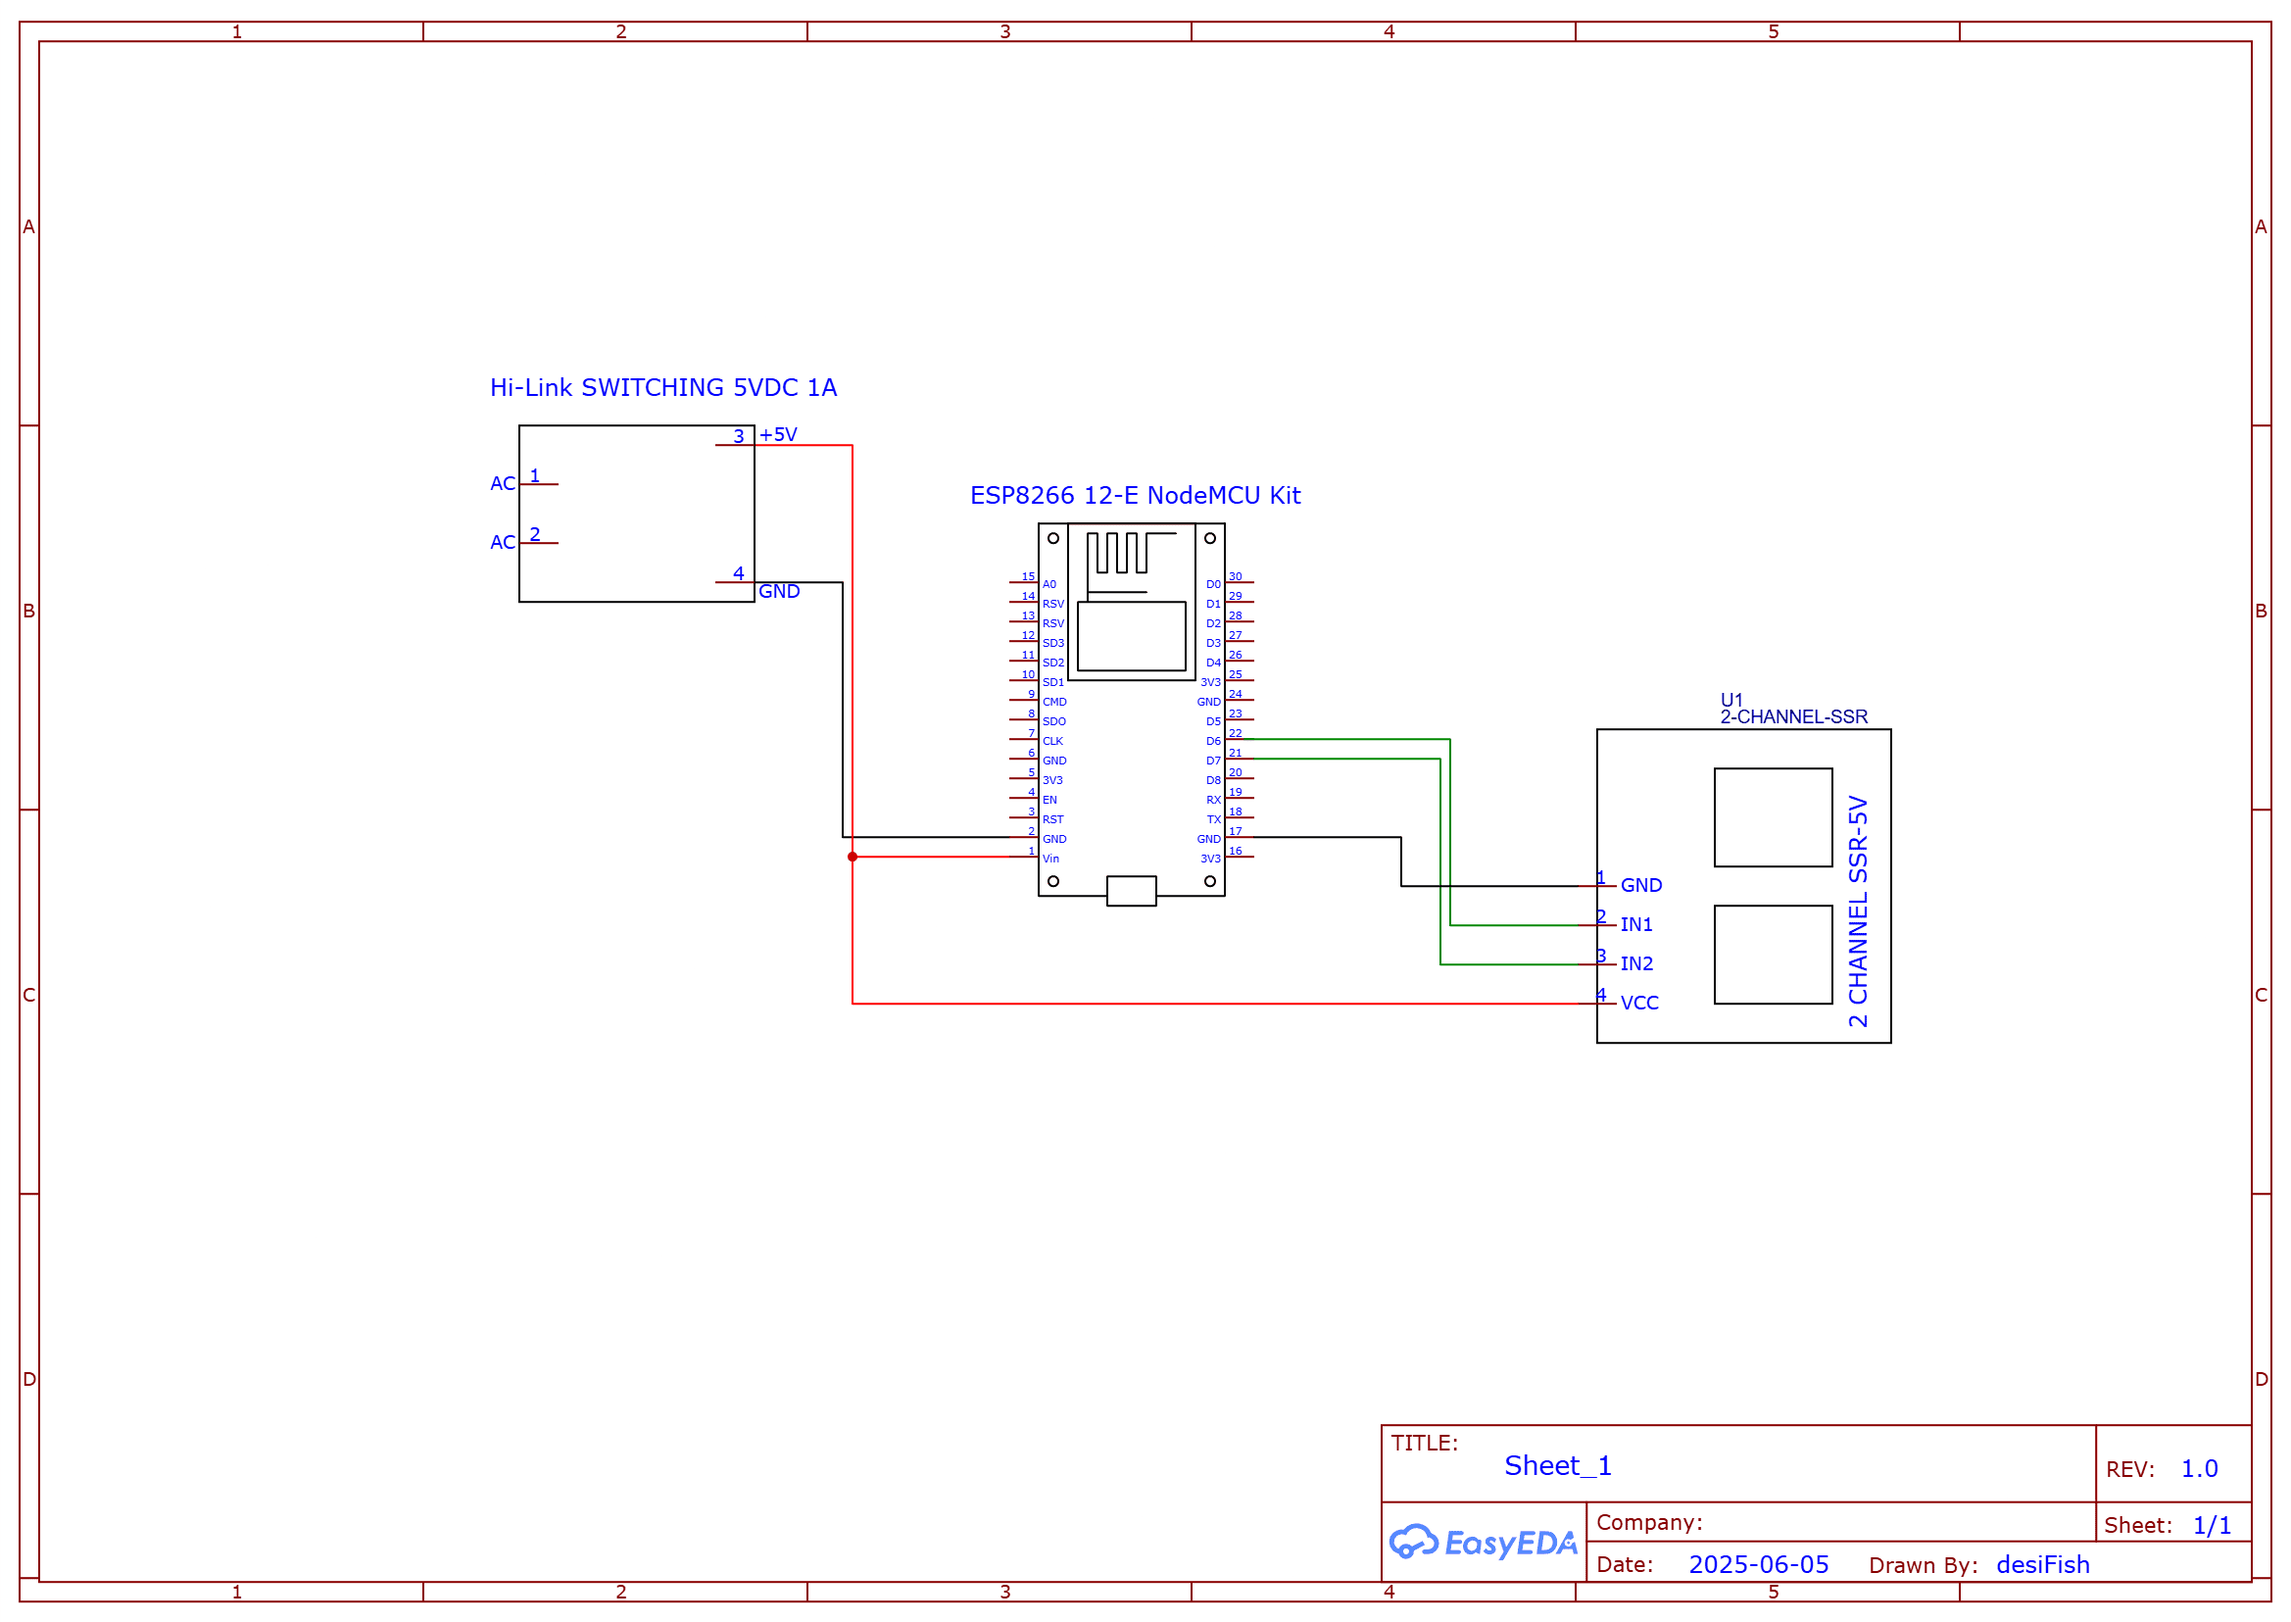
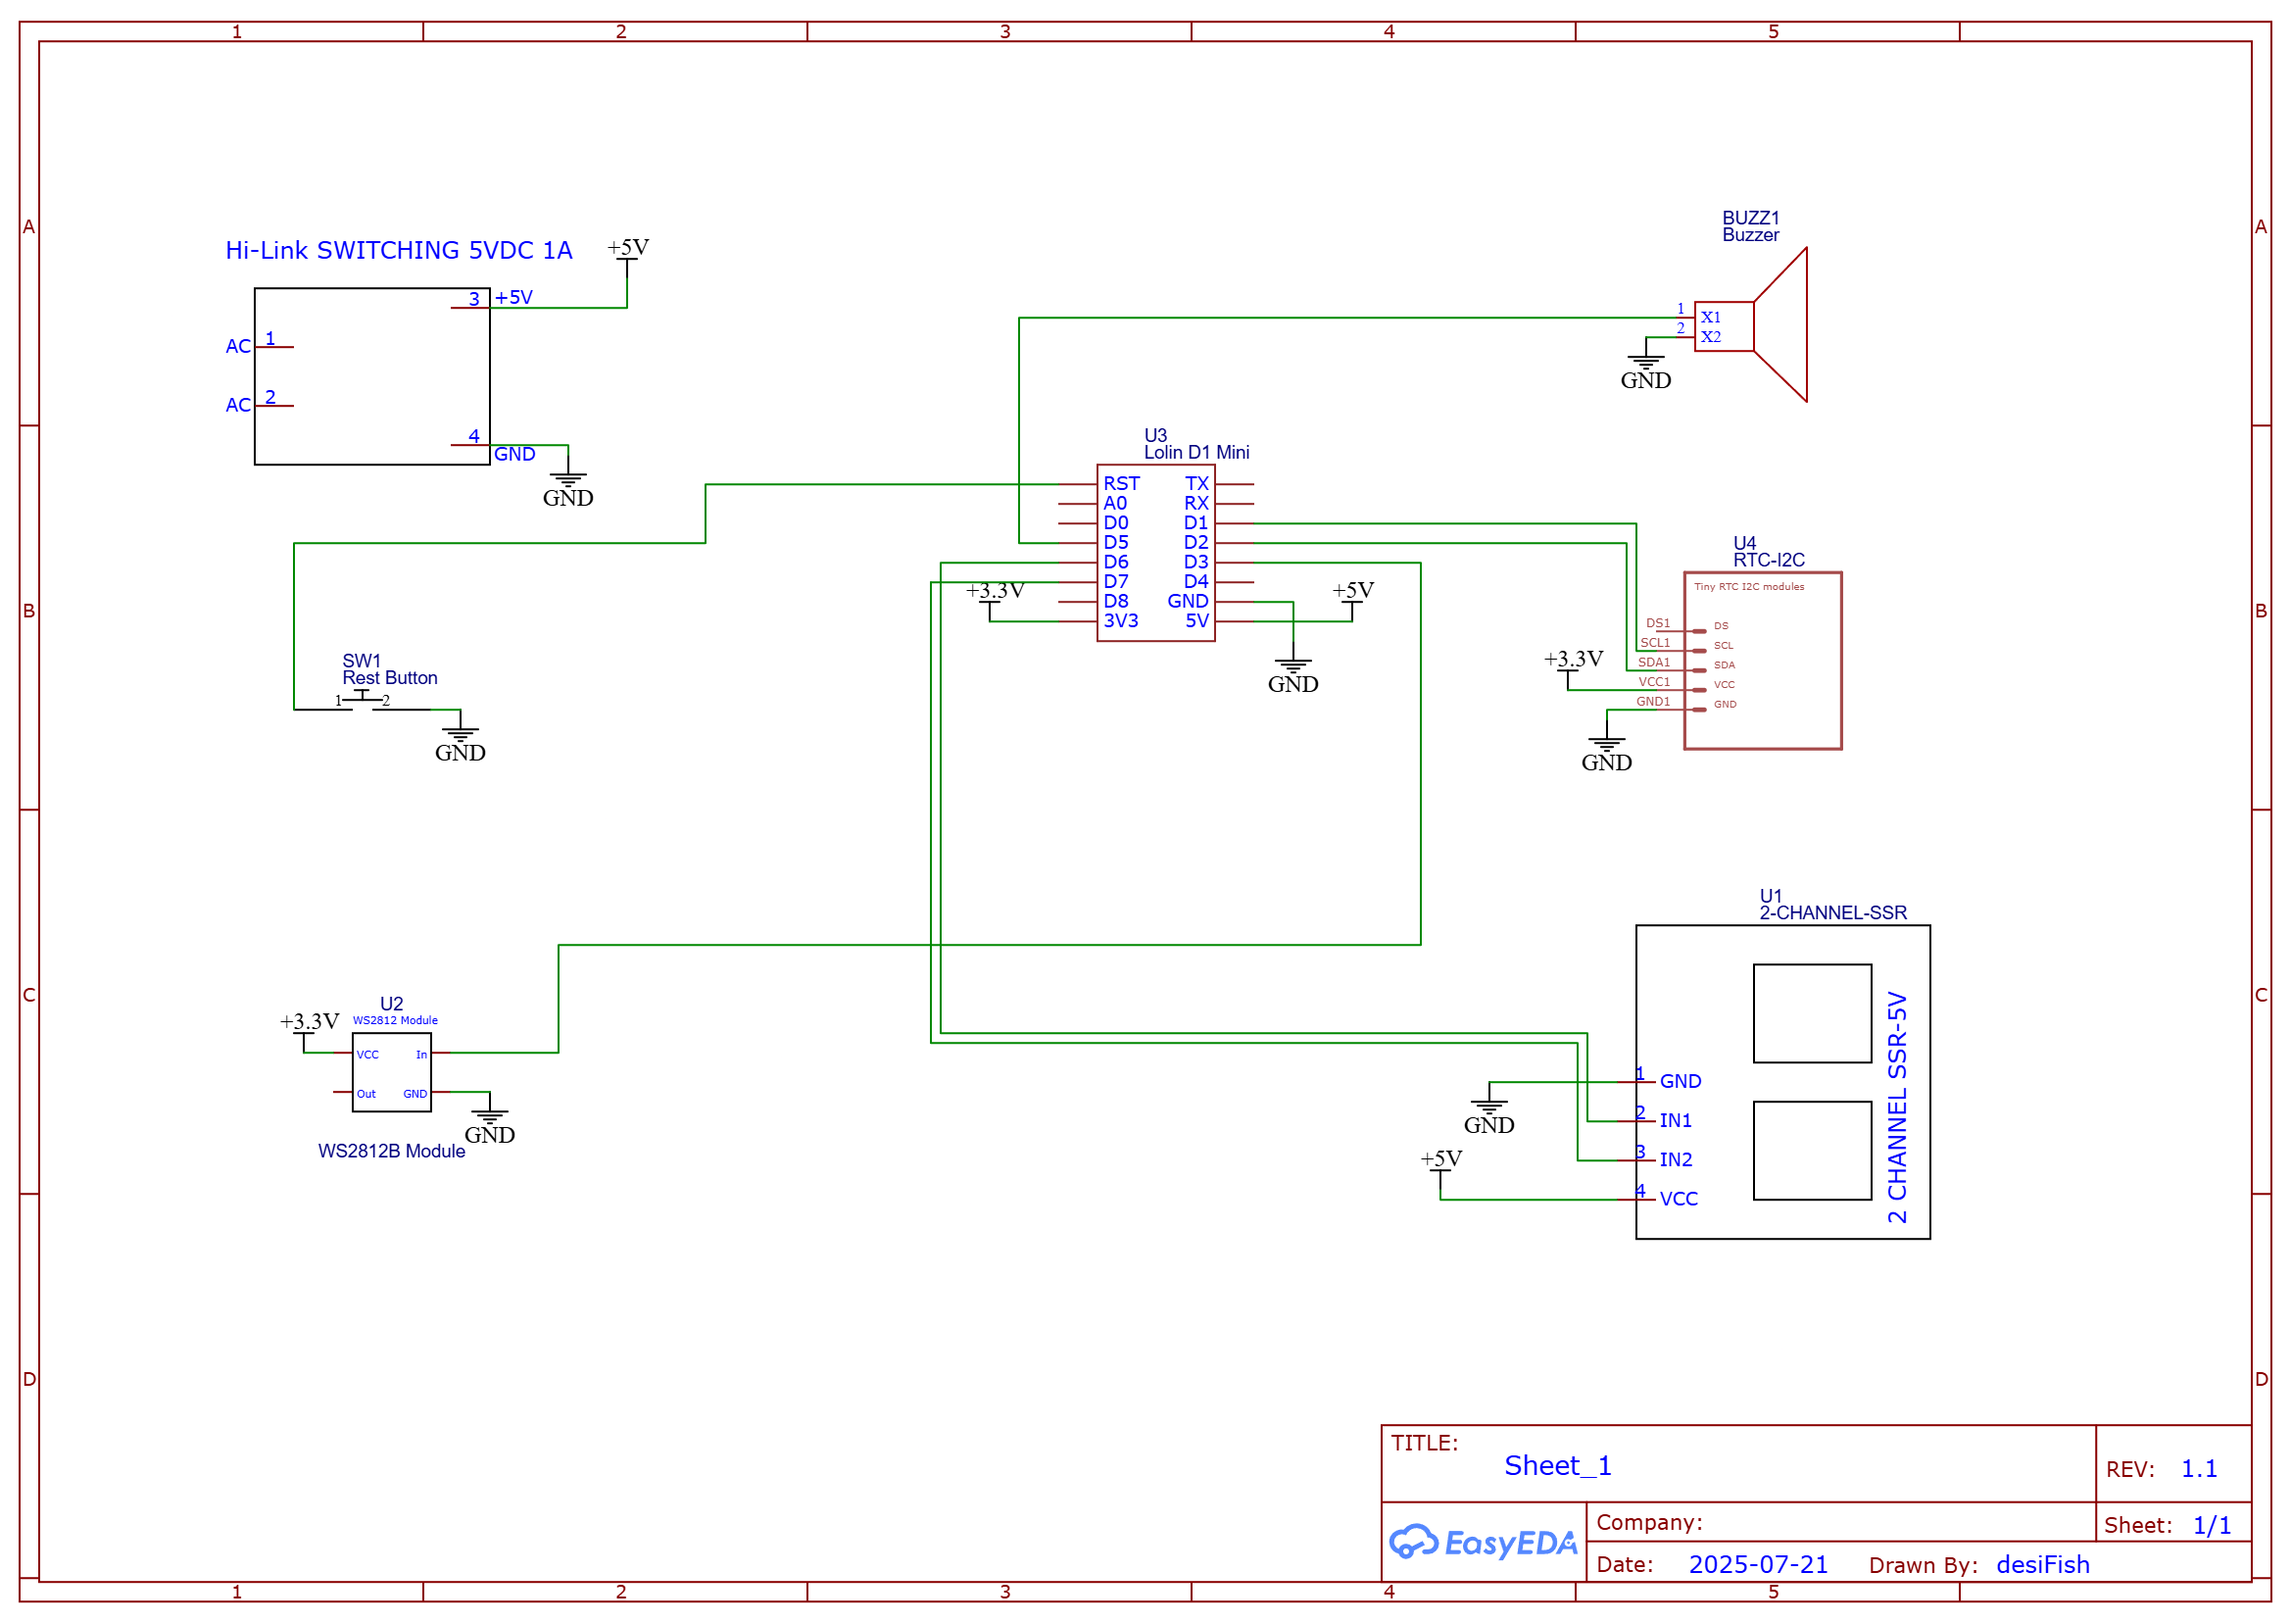
docmunetation update v1.1.0

diff --git a/README.md b/README.md
@@ -62,6 +62,16 @@ By using this project, you acknowledge and agree to the following:
 </div>
 </div>
 
+## 🕒 RTC Support (DS1307/DS3231)
+
+This project supports both **DS1307** and **DS3231** RTC modules for accurate timekeeping.  
+- By default, the code uses DS1307.  
+- To use DS3231, uncomment the relevant line in the code (`RTC_DS3231 rtc;`) and comment out the DS1307 line before uploading.
+- Both modules connect via I2C (SDA/SCL) to the ESP8266.
+- RTC time can be updated from the **Settings** page in the web interface.
+
+> **Note:** The RTC keeps time even when the ESP8266 is powered off. Time synchronization from NTP is only required after initial setup or if the RTC loses power.
+
 ## 🌟 Features
 
 - **🎛 Multiple Control Modes**
@@ -77,13 +87,13 @@ By using this project, you acknowledge and agree to the following:
   - Connection Status Indicator
 
 - **⏰ Time Management**
-  - NTP Time Synchronization (Updates every 30 seconds)
-  - Uses pool.ntp.org servers with 30-second polling interval to prevent server overload
+  - NTP Time Synchronization (manual update via Settings page)
+  - Uses pool.ntp.org servers for time sync
   - Automatic Time Updates with fallback servers
-  - Time Accuracy: ±30 seconds (sufficient for most aquarium timing needs)
+  - Time Accuracy depends on RTC module (DS1307/DS3231)
   - Persistent Scheduling
-  - Requires constant WiFi connection
-  > 📝 **Note**: This version relies on NTP for time management and requires constant WiFi connectivity. The 30-second update interval is chosen to balance accuracy with NTP server load. For offline operation or exact timing, consider using [Smart Aquarium V3.1](https://github.com/desiFish/Smart-Aquarium-V3.1) which uses an RTC module and can be modified accordingly.
+  - Requires WiFi connection for NTP sync
+  > 📝 **Note**: This version relies on RTC for time management. Time can be updated from NTP manually via the Settings page. For offline operation or exact timing, DS3231 is recommended for higher accuracy.
 
 - **🎨 Modern UI**
   - Responsive Design
@@ -126,11 +136,14 @@ This system is highly scalable and can be easily modified to control more or few
 
 - ESP8266 12-E NodeMCU Development Board (or any compatible ESP8266 module)
 - 2-Channel Relay Module
+- RTC Module: DS1307 (default) or DS3231 (select in code before uploading)
 - Power Supply (5V)
 - Stable WiFi Connection (2.4GHz network with internet access for NTP)
-  > ⚠ **Important**: This version requires constant internet connectivity for time synchronization. Power or internet outages will affect timing accuracy until reconnection.
+  > ⚠ **Important**: RTC module is required for timekeeping. DS3231 is recommended for higher accuracy and reliability. Internet connectivity is only needed for time synchronization via NTP (manual update).
 
-> 💡 **Compatibility**: While this project is developed and tested on the ESP8266 12-E NodeMCU Kit, it should work on other ESP8266-based development boards with minimal modifications. Just ensure your board has enough GPIO pins for the relay and RTC connections.
+> 💡 **Compatibility**: This project is developed and tested on the ESP8266 12-E NodeMCU Kit.  
+> It has been tested on **NodeMCU 1.0** and **LOLIN (Wemos) D1 R2 Mini** boards.  
+> It works with other ESP8266-based boards with minimal changes. Ensure your board has enough GPIO pins for relays and I2C (SDA/SCL) for RTC.
 
 ### ESP8266 Pinout
 <div align="center">
@@ -182,6 +195,7 @@ NTPClient timeClient(ntpUDP, "in.pool.ntp.org", 19800);
 Example for Central European Time (CET, UTC+1):
 ```cpp
 NTPClient timeClient(ntpUDP, "europe.pool.ntp.org", 3600);
+```
 
 ## 🚀 Installation
 
@@ -247,34 +261,54 @@ NTPClient timeClient(ntpUDP, "europe.pool.ntp.org", 3600);
 The system provides a modern, fully responsive web interface optimized for both desktop and mobile devices:
 
 - **Main Dashboard** (`index.html`)
-  - Responsive Relay Controls
-  - Touch-friendly Mode Selection
-  - Intuitive Timer Settings
-  - Real-time Status Monitoring
-  - Adaptive Layout for All Screen Sizes
+  - Control and monitor each relay channel in real time
+  - Select operation mode: Manual, Auto, Timer, or Toggle
+  - Set schedules, timers, and toggle intervals
+  - Enable/disable relays
+  - View live relay status and mode indicators
+  - Responsive and touch-friendly for mobile and desktop
 
 - **Settings Page** (`settings.html`)
+  - Configure WiFi and network settings (DHCP/static IP)
+  - Change relay names
+  - Set NTP server and timezone
+  - Update RTC time from NTP
+  - Backup and restore configuration
+  - View current time, date, and day of week
   - Mobile-optimized Input Fields
   - Easy Touch Navigation
   - Responsive Time Controls
   - Accessible System Information
 
+- **Hardware Specs Page** (`specs.html`)
+  - Displays detailed hardware information such as chip ID, flash size, CPU frequency, WiFi signal strength, and more.
+  - Auto-refreshes every 5 seconds.
+  - Shows connection status and firmware version.
+
 ## 🔌 API Endpoints
 
 The system exposes several RESTful API endpoints:
 
-- `/api/status` - System status
+- `/api/status` - System status (returns true if running)
 - `/api/version` - Firmware version
-- `/api/rtctime` - Current RTC time
-- `/api/ledX/*` - Relay control endpoints where X is 1-4
-  - `/status` - Get relay status
-  - `/toggle` - Toggle relay state
-  - `/mode` - Set/get operation mode
-  - `/schedule` - Set/get schedules
-  - `/timer` - Set timer duration
-  - `/timer/state` - Get timer status
-  - `/toggle-mode` - Set toggle mode parameters
-  - `/name` - Set/get relay name
+- `/api/rtctime` - Current RTC time (HH:MM)
+- `/api/clock` - Returns time, date, and day of week
+- `/api/wifi` (GET/POST) - Get or update WiFi and network settings
+- `/api/ntp` (GET/POST) - Get or update NTP server and timezone settings
+- `/api/reboot` (POST) - Reboot the device
+- `/api/time/update` (POST) - Trigger RTC time update from NTP
+- `/api/error` (GET) - Get the latest error message (clears after reading)
+- `/api/system/details` (GET) - Get ESP8266 system and hardware details
+- `/api/ledX/status` (GET) - Get relay status (ON/OFF)
+- `/api/ledX/toggle` (POST) - Toggle relay state
+- `/api/ledX/mode` (GET/POST) - Get or set operation mode (manual, auto, timer, toggle)
+- `/api/ledX/schedule` (GET/POST) - Get or set relay schedule (on/off times)
+- `/api/ledX/timer` (POST) - Set timer duration
+- `/api/ledX/timer/state` (GET) - Get timer status
+- `/api/ledX/toggle-mode` (POST) - Set toggle mode parameters
+- `/api/ledX/toggle-mode/state` (GET) - Get toggle mode status
+- `/api/ledX/name` (GET/POST) - Get or set relay name
+- `/api/ledX/system/state` (GET/POST) - Get or set relay enabled/disabled state
 
 ## 🎯 Contributing
 
